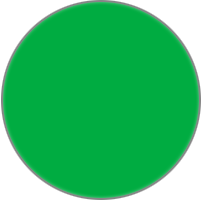
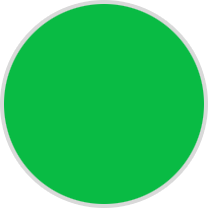
更新时间饼图的图片素材

Changed region(s): [[0.0, 0.0, 1.0, 1.0]]

diff --git a/CDIiPhoneApp/Time Panel/TimeDetailViewController.m b/CDIiPhoneApp/Time Panel/TimeDetailViewController.m
@@ -61,7 +61,7 @@
   [_pieChart setDataSource:self];
   [_pieChart setStartPieAngle:M_PI * 3 / 2];
   [_pieChart setAnimationSpeed:1.0];
-  [_pieChart setPieRadius:113];
+  [_pieChart setPieRadius:115];
   [_pieChart setPieCenter:CGPointMake(116, 116)];
   [_pieChart setUserInteractionEnabled:NO];
   [_pieChart setMinPieAngle:M_PI * 2 * 2  / (4 * 14)];
@@ -144,23 +144,11 @@
   UIColor *fillColor = nil;
   TimeZone *timeZone = self.currentTimeZones[index];
   if (timeZone.available) {
-    fillColor = [UIColor colorWithRed:216.0/255.0 green:216.0/255.0 blue:216.0/255.0 alpha:1.0];
+    fillColor = [UIColor colorWithRed:234.0/255.0 green:234.0/255.0 blue:234.0/255.0 alpha:1.0];
   } else {
     fillColor = [UIColor clearColor];
   }
   return fillColor;
-}
-
-- (UIColor *)pieChart:(XYPieChart *)pieChart colorForStrokeAtIndex:(NSUInteger)index
-{
-  UIColor *strokeColor = nil;
-  TimeZone *timeZone = self.currentTimeZones[index];
-  if (timeZone.available) {
-    strokeColor = [UIColor colorWithRed:239.0/255.0 green:239.0/255.0 blue:239.0/255.0 alpha:1];
-  } else {
-    strokeColor = [UIColor clearColor];
-  }
-  return strokeColor;
 }
 
 - (UIColor *)pieChart:(XYPieChart *)pieChart colorForShadowAtIndex:(NSUInteger)index
@@ -168,7 +156,7 @@
   UIColor *shadowColor = nil;
   TimeZone *timeZone = self.currentTimeZones[index];
   if (timeZone.available) {
-    shadowColor = [UIColor colorWithRed:0.0 green:0.0 blue:0.0 alpha:0.4];
+    shadowColor = [UIColor colorWithRed:0.0 green:0.0 blue:0.0 alpha:0.2];
   } else {
     shadowColor = [UIColor clearColor];
   }

diff --git a/CDIiPhoneApp/Custom Control/XYPieChart.m b/CDIiPhoneApp/Custom Control/XYPieChart.m
@@ -426,13 +426,13 @@ static CGPathRef CGPathCreateArc(CGPoint center, CGFloat radius, CGFloat startAn
   
   if ([self.dataSource respondsToSelector:@selector(pieChart:shouldHaveShadowAtIndex:)]) {
     if ([self.dataSource pieChart:self shouldHaveShadowAtIndex:index]) {
-      [layer setShadowRadius:2.0];
+      [layer setShadowRadius:1.0];
       [layer setShadowOpacity:1.0];
       [layer setShadowOffset:CGSizeMake(0.0, 0.0)];
       [layer setShadowColor:shadowColor.CGColor];
     }
   }
-  [layer setLineWidth:1.0];
+  [layer setLineWidth:0.0];
   [layer setFillColor:fillColor.CGColor];
   [layer setStrokeColor:strokeColor.CGColor];
 }
